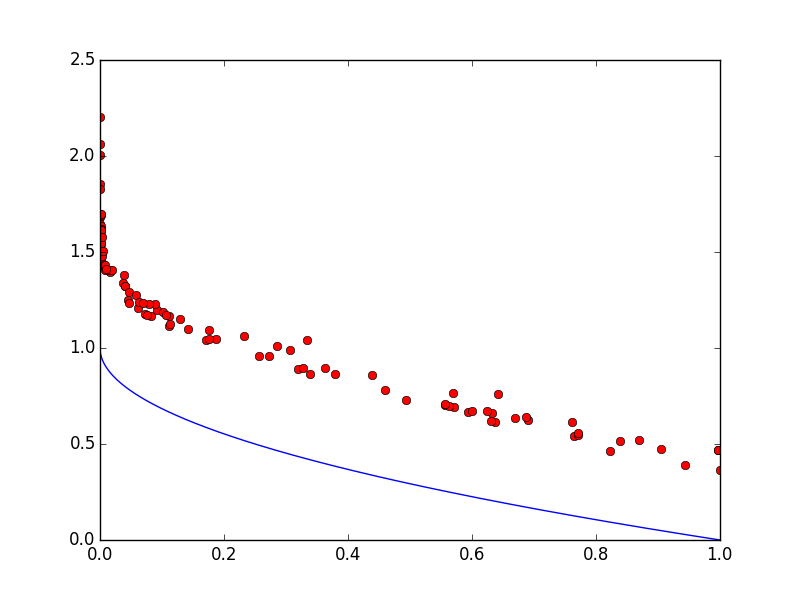
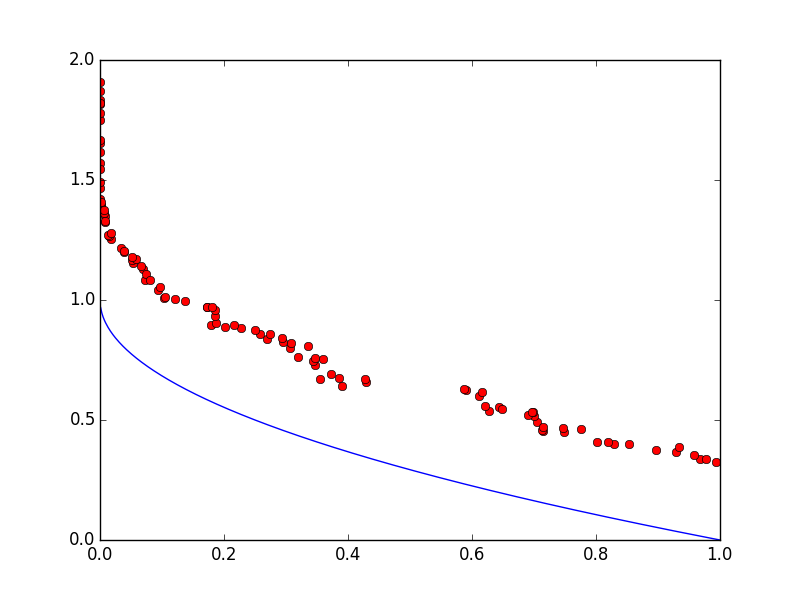
Updated reference to handle outer and inner

diff --git a/nsga2/NSGA2.py b/nsga2/NSGA2.py
@@ -113,7 +113,7 @@ class NSGA2(Algorithm):
     kids = []
     clones = [one.clone() for one in population]
 
-    for _ in range(len(clones)//2):
+    for _ in range(len(clones)):
       mom = tools.binary_tournament_selection(self.problem, clones, 4, is_domination)
       dad = None
       while True:
@@ -137,11 +137,13 @@ class NSGA2(Algorithm):
     pop_next = []
     for i, front in enumerate(fronts):
       fronts[i] = self.assign_crowd_dist(front)
-      pop_next += fronts[i]
-      if len(pop_next) >= size:
-        pop_next = pop_next[:size]
+      if len(pop_next) + len(fronts[i]) >= size:
+        pop_next += sorted(fronts[i], key=lambda x:x.crowd_dist, reverse=True)[:(size - len(fronts[i]))]
         break
+      else:
+        pop_next += fronts[i]
     return pop_next
+
 
 
   def fast_non_dom_sort(self, population):
@@ -182,7 +184,6 @@ class NSGA2(Algorithm):
         front1 = front2
     return frontiers
 
-
   def assign_crowd_dist(self, frontier):
     """
     Crowding distance between each point in
@@ -191,13 +192,11 @@ class NSGA2(Algorithm):
     l = len(frontier)
     for m in range(len(self.problem.objectives)):
       frontier = sorted(frontier, key=lambda x:x.objectives[m])
-      obj_min = frontier[0].objectives[m]
-      obj_max = frontier[-1].objectives[m]
       frontier[0].crowd_dist = float("inf")
       frontier[-1].crowd_dist = float("inf")
       for i in range(1,l-1):
-        frontier[i].crowd_dist += (frontier[i+1].objectives[m] - frontier[i-1].objectives[m])/(obj_max - obj_min + EPS)
-    return sorted(frontier, key=lambda x:x.crowd_dist, reverse=True)
+        frontier[i].crowd_dist += (frontier[i+1].objectives[m] - frontier[i-1].objectives[m])
+    return frontier
 
 
 

diff --git a/nsga3/reference.py b/nsga3/reference.py
@@ -12,18 +12,21 @@ class Coordinate(O):
     self.pts = []
 
 
-def splits(divisions):
-  delta = 1 / divisions
-  return [i*delta for i in range(divisions)]+[1.0]
-
-def initialize(p):
-  return [[pt] for pt in splits(p)]
+def splits(dim, div, outer=True):
+  if outer:
+    start = 0.0
+    end = 1.0
+  else:
+    start = 1/(2*dim)
+    end = start + 0.5
+  delta = (end - start) / div
+  return [start] + [start + i*delta for i in range(1, div)] + [end]
 
 def valid(coord, exact = False):
   if exact:
     return abs(sum(coord) - 1) < EPS
   else:
-    return sum(coord) <= 1
+    return sum(coord) <= 1 + EPS
 
 def expand(coords, possible):
   expanded  = []
@@ -37,7 +40,7 @@ def expand(coords, possible):
   return expanded
 
 
-def reference(m, p):
+def reference(m, p, outer=True):
   """
   Create a set of reference points
   with m axes and p is the number of
@@ -46,12 +49,19 @@ def reference(m, p):
   :param p: Number of divisions
   :return:
   """
-  possible = splits(p)
+  possible = splits(m, p, outer=outer)
   coords = [[pt] for pt in possible]
   for i in range(1, m):
     coords = expand(coords, possible)
   return [coord for coord in coords if valid(coord, exact=True)]
 
+def cover(m, p_outer, p_inner=None):
+  ref = reference(m, p_outer)
+  if p_inner:
+    ref += reference(m, p_inner, outer=False)
+  return ref
+
 
 if __name__ == "__main__":
-  print(reference(3,12))
+  x = cover(8, 3, 2)
+  print(len(x))

diff --git a/problems/dltz1.py b/problems/dltz1.py
@@ -25,22 +25,19 @@ class DTLZ1(Problem):
 
   def evaluate(self, decisions):
     m = len(self.objectives)
-    def g():
-      val = 0
-      for index in range(len(decisions) - DTLZ1.k, len(decisions)):
-        d = decisions[index]
-        val += ((d-0.5)**2) - (cos(20*PI*(d-0.5)))
-      val = 1 * (DTLZ1.k + val)
-      # TODO above line is a hack
-      #val = 100 * (DTLZ1.k + val)
-      return val
-
-    f = [0.5 * (1 + g())]*m
-    for i in range(m):
-      for j in range(m-(i+1)):
-        f[i] *= decisions[j]
-      if i!=0:
-        f[i] *= (1-decisions[m-(i+1)])
+    n = len(decisions)
+    k = n - m + 1
+    g = 0
+    for i in range(n - k, n):
+      g += ((decisions[i] - 0.5)**2 - cos(20.0 * PI * (decisions[i] - 0.5)))
+    g = 100 * (k + g)
+    f = []
+    for i in range(0, m): f.append((1.0 + g)*0.5)
+    for i in xrange(m):
+      for j in range(0, m-(i+1)): f[i] *= decisions[j]
+      if not (i==0):
+        aux = m - (i+1)
+        f[i] *= 1 - decisions[aux]
     return f
 
 def _run_once():
@@ -50,7 +47,7 @@ def _run_once():
   random.seed(0)
   o = DTLZ1(2)
   o.populate(optimizer.settings().pop_size)
-  opt = algo(o, gens=100)
+  opt = algo(o, gens=250)
   goods = opt.run()
   objs = [good.objectives for good in goods]
   opt.solution_range(goods)
